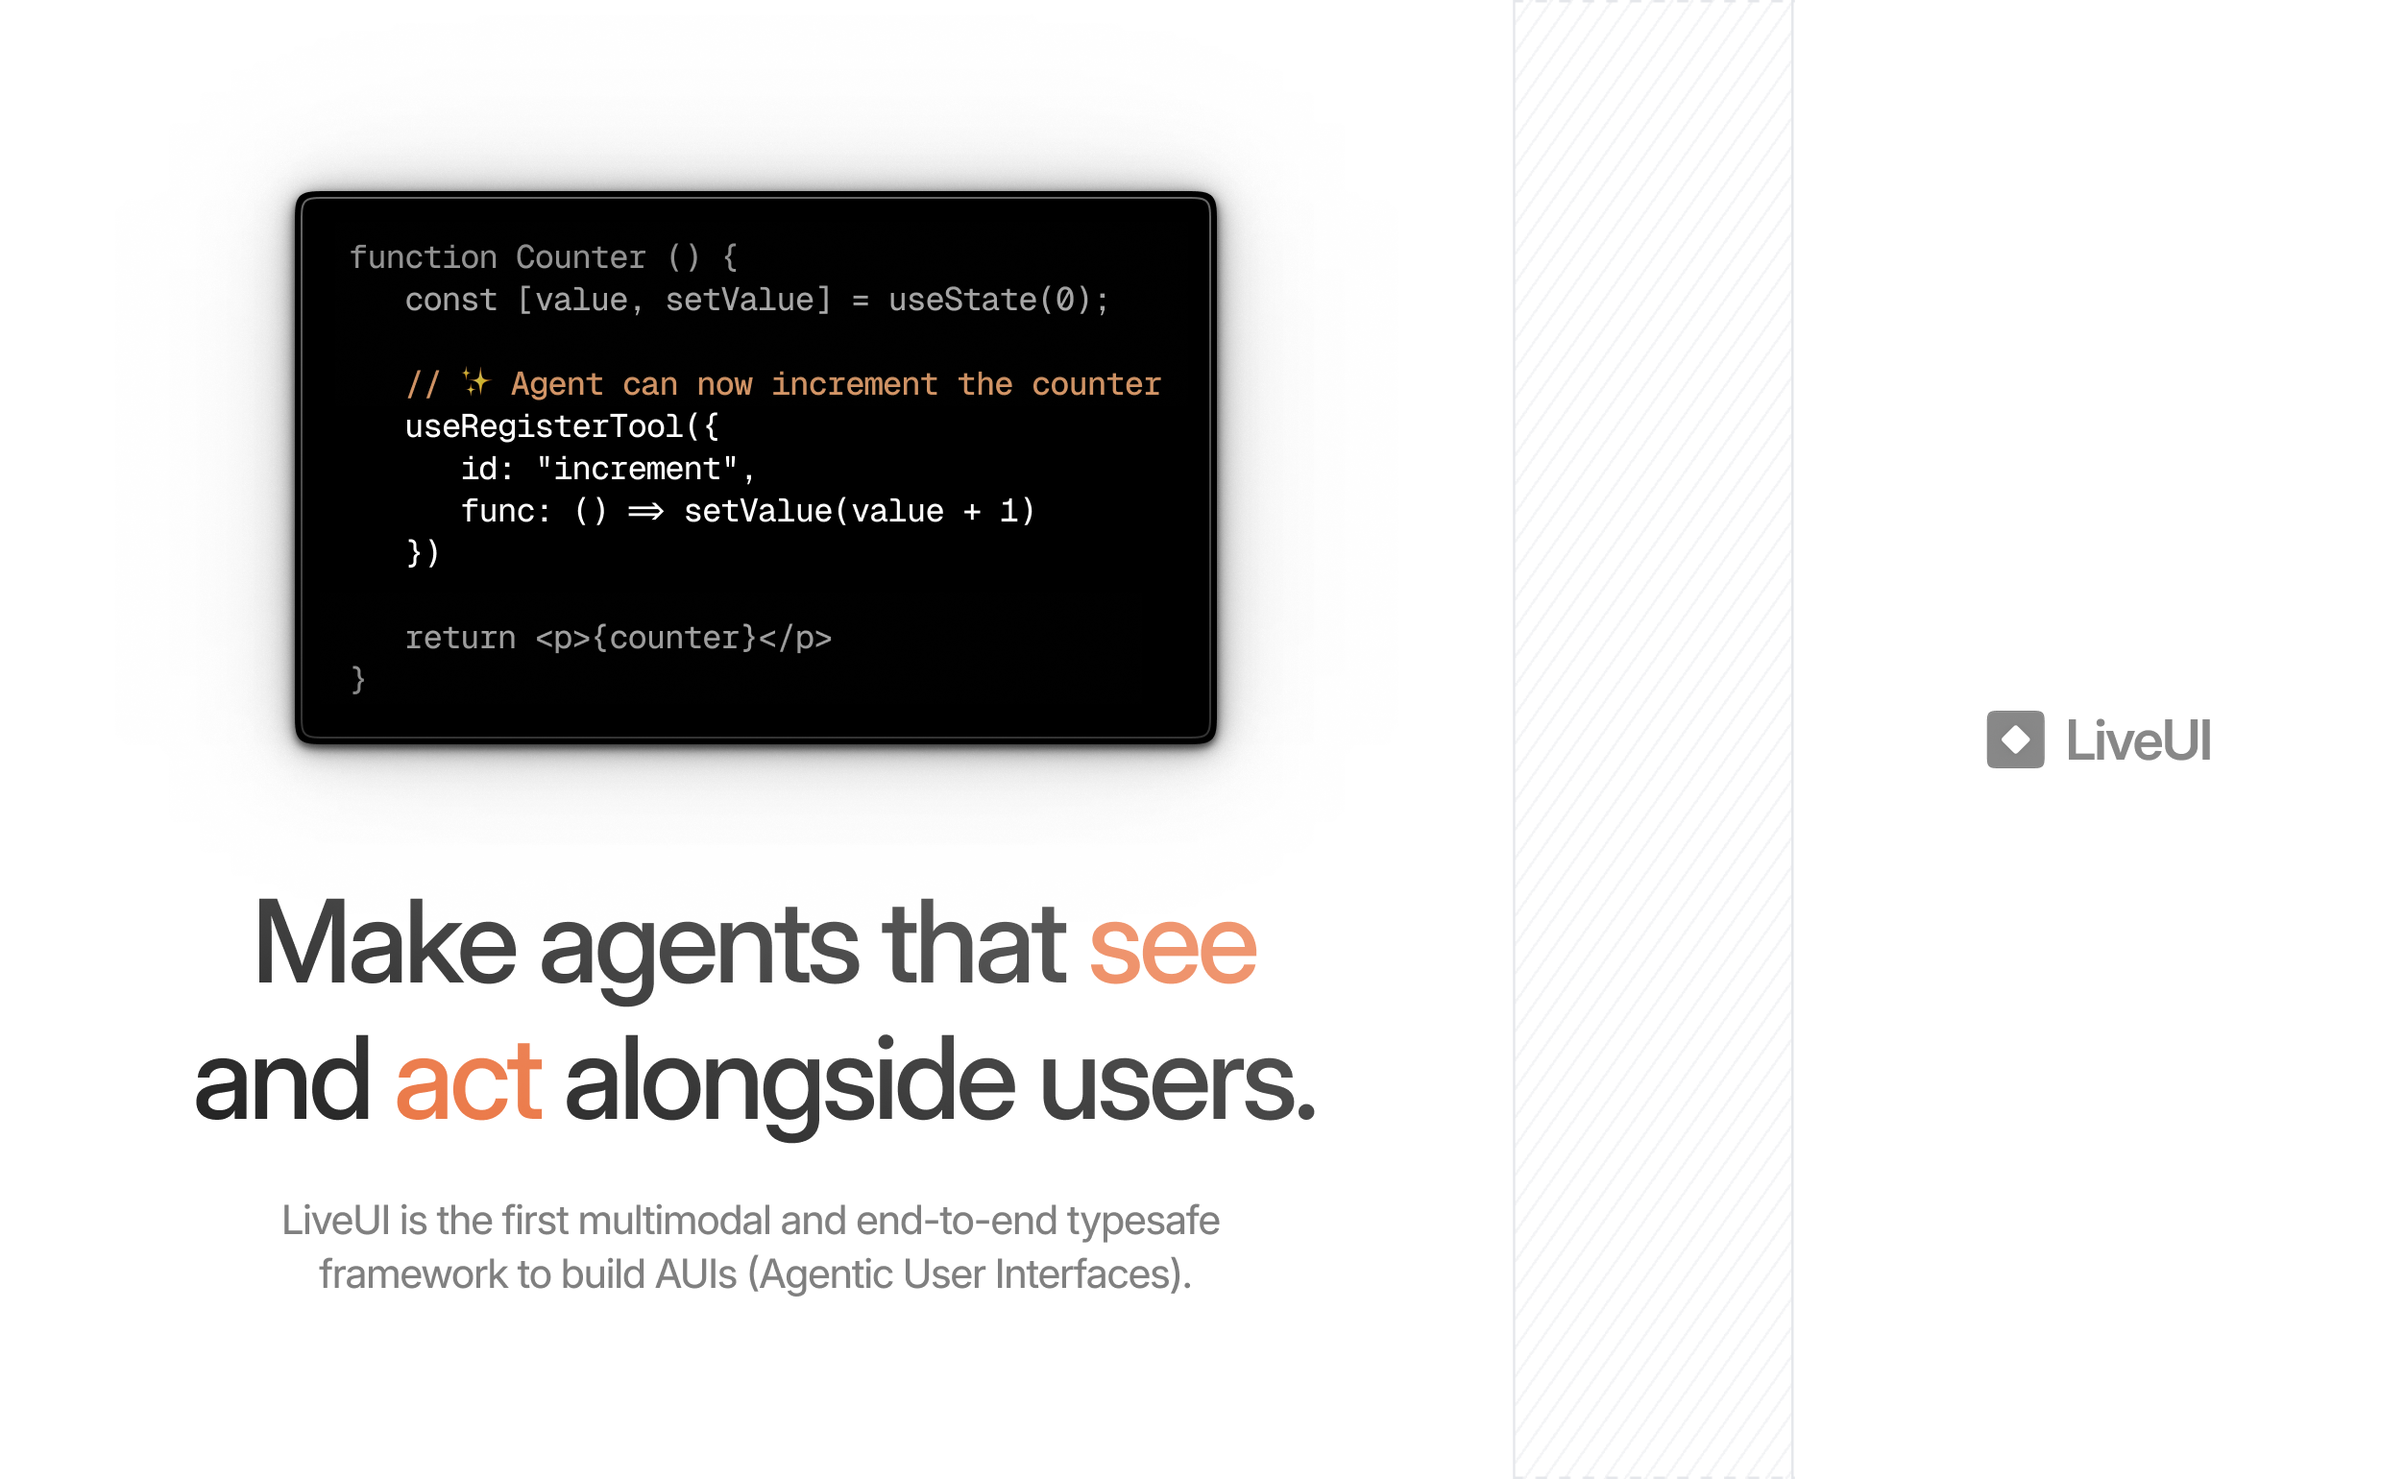
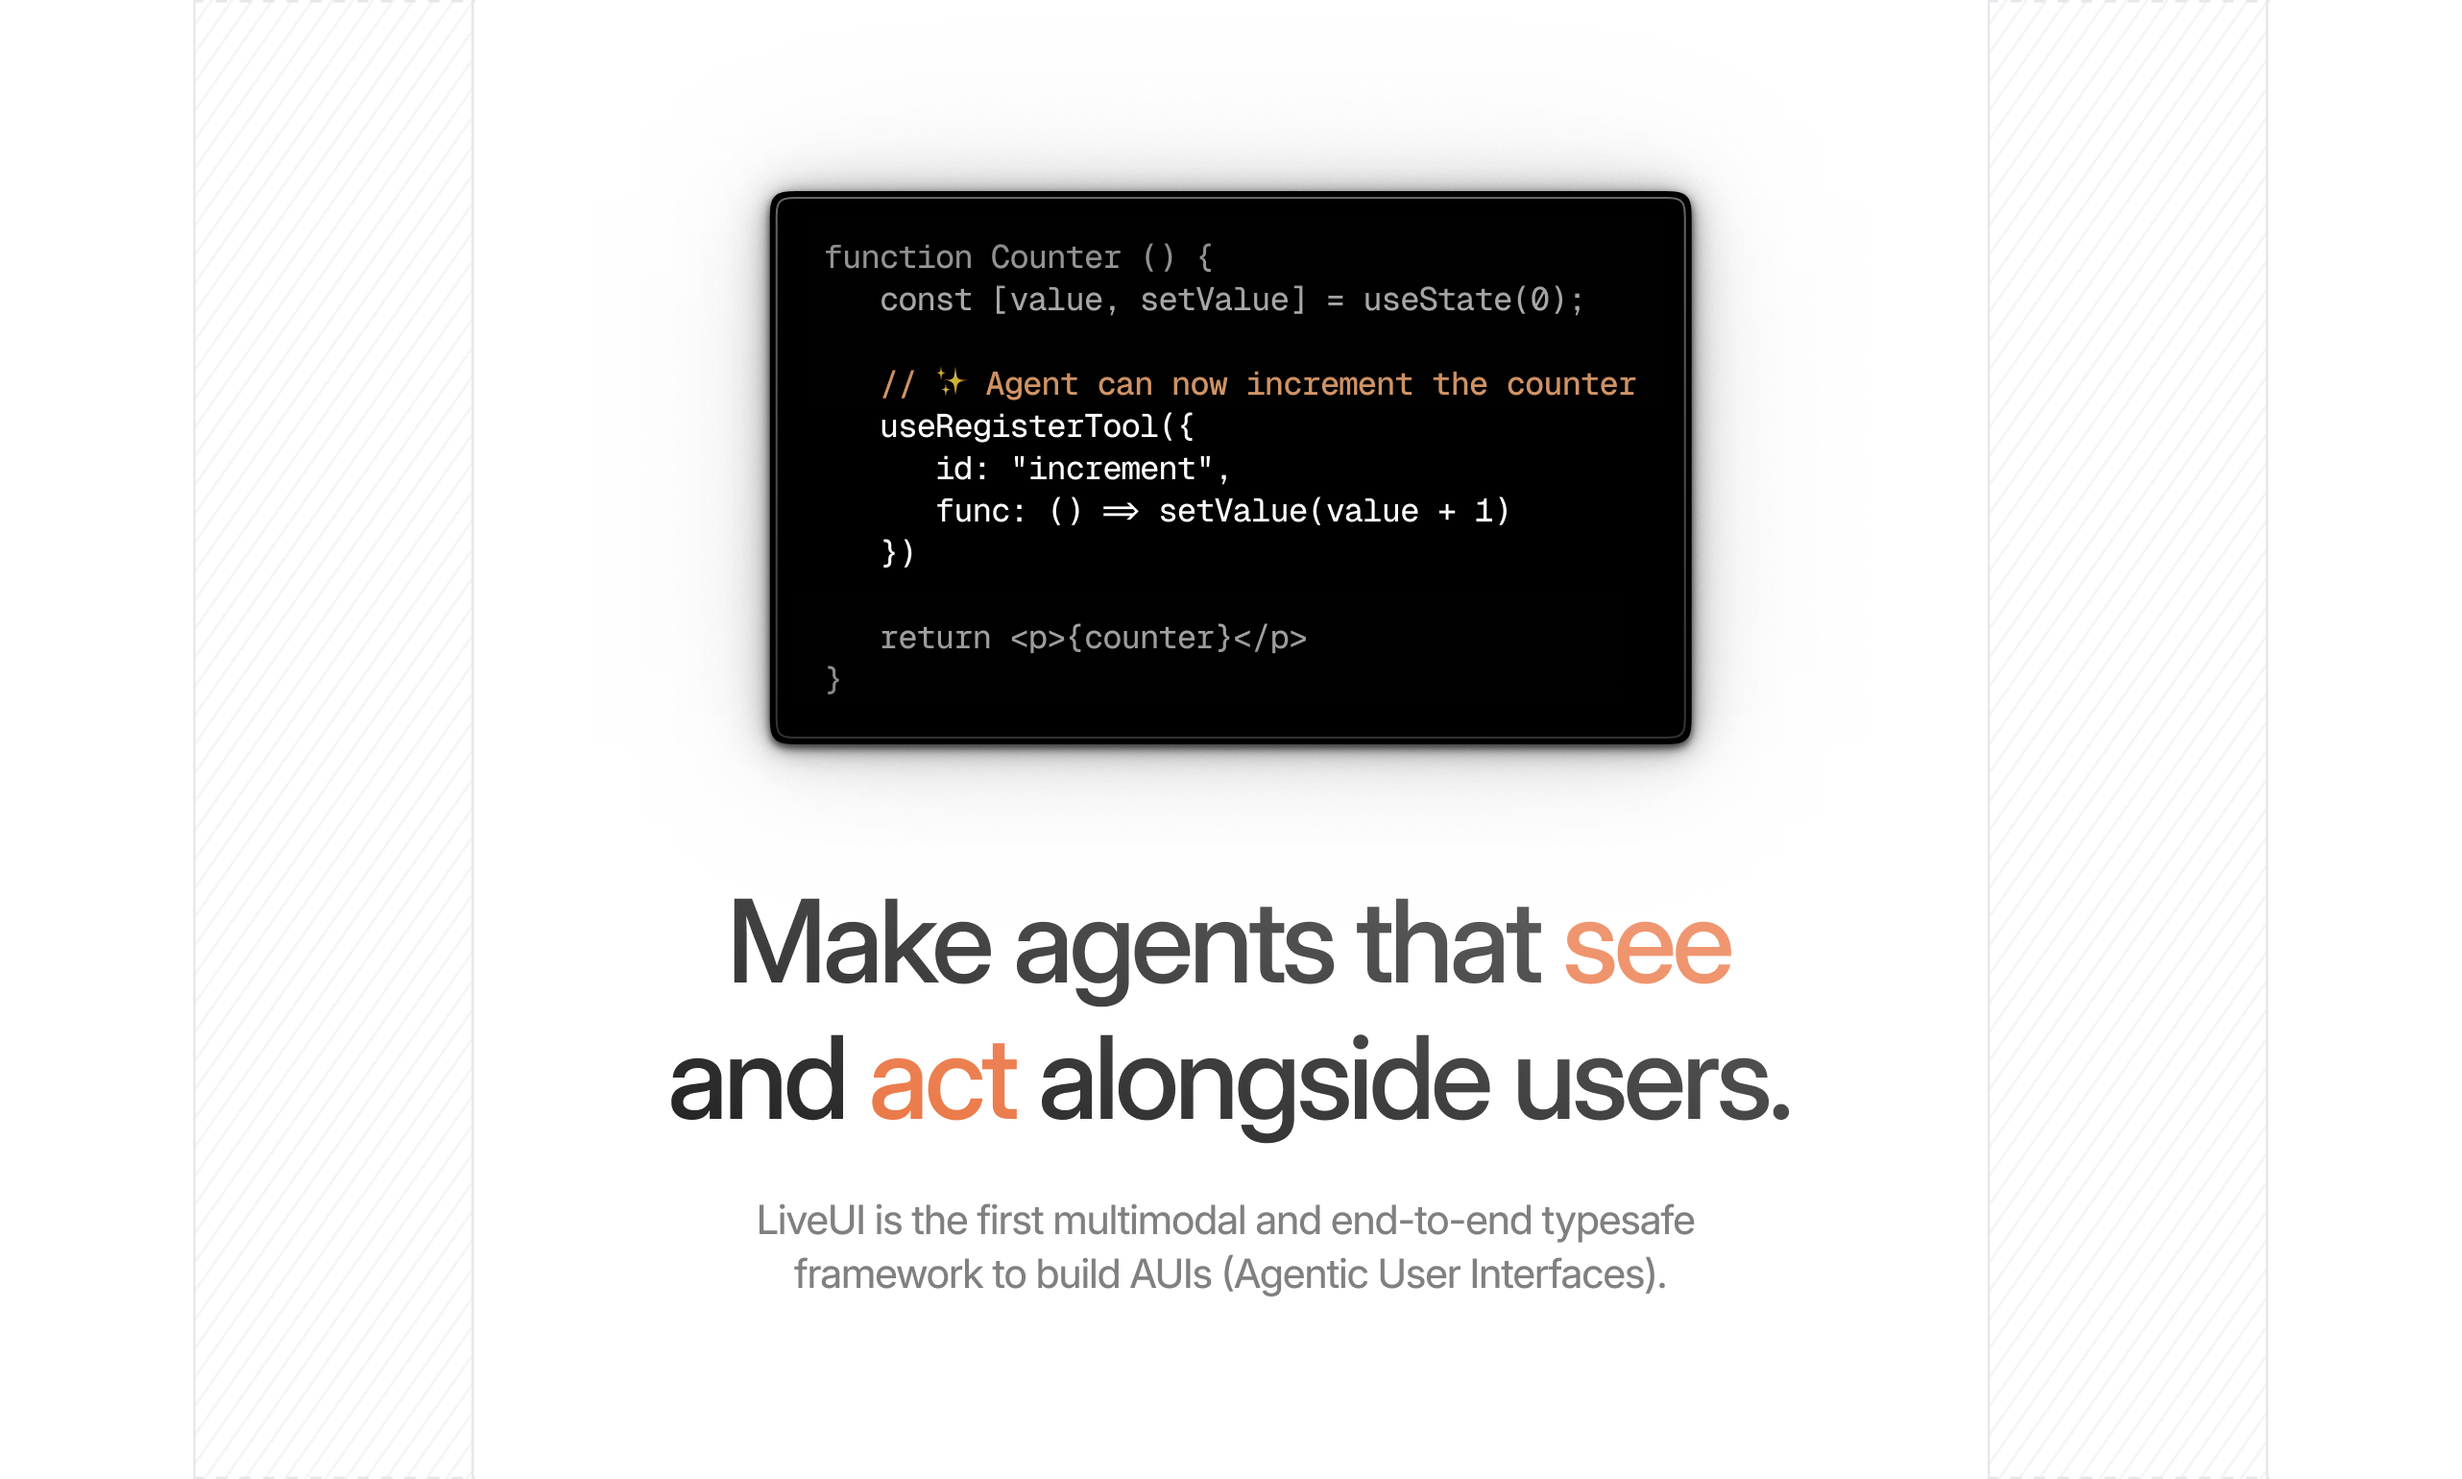
Improve readme illustrations

diff --git a/README.md b/README.md
@@ -1,11 +1,13 @@
 <p align="center">
-    <img width=800" src="./banner.png" alt="LiveUI Banner logo">
+    <img width=800" src="./banner2.png" alt="LiveUI Banner">
 </p>
 
-<h1 align="center">LiveUI</i></h1>
-<p align="center"><b>The the first multimodal and end-to-end typesafe<br>framework to build AUIs (Agentic User Interfaces).
+<p align="center">
+    <img width=150" src="./logo3.png" alt="LiveUI Logo">
+</p>
 
-</b></p>
+<h1 align="center">LiveUI</h1>
+<p align="center"><b>The the first multimodal and end-to-end typesafe<br>framework to build AUIs (Agentic User Interfaces).</b></p>
 
 <br>
 
